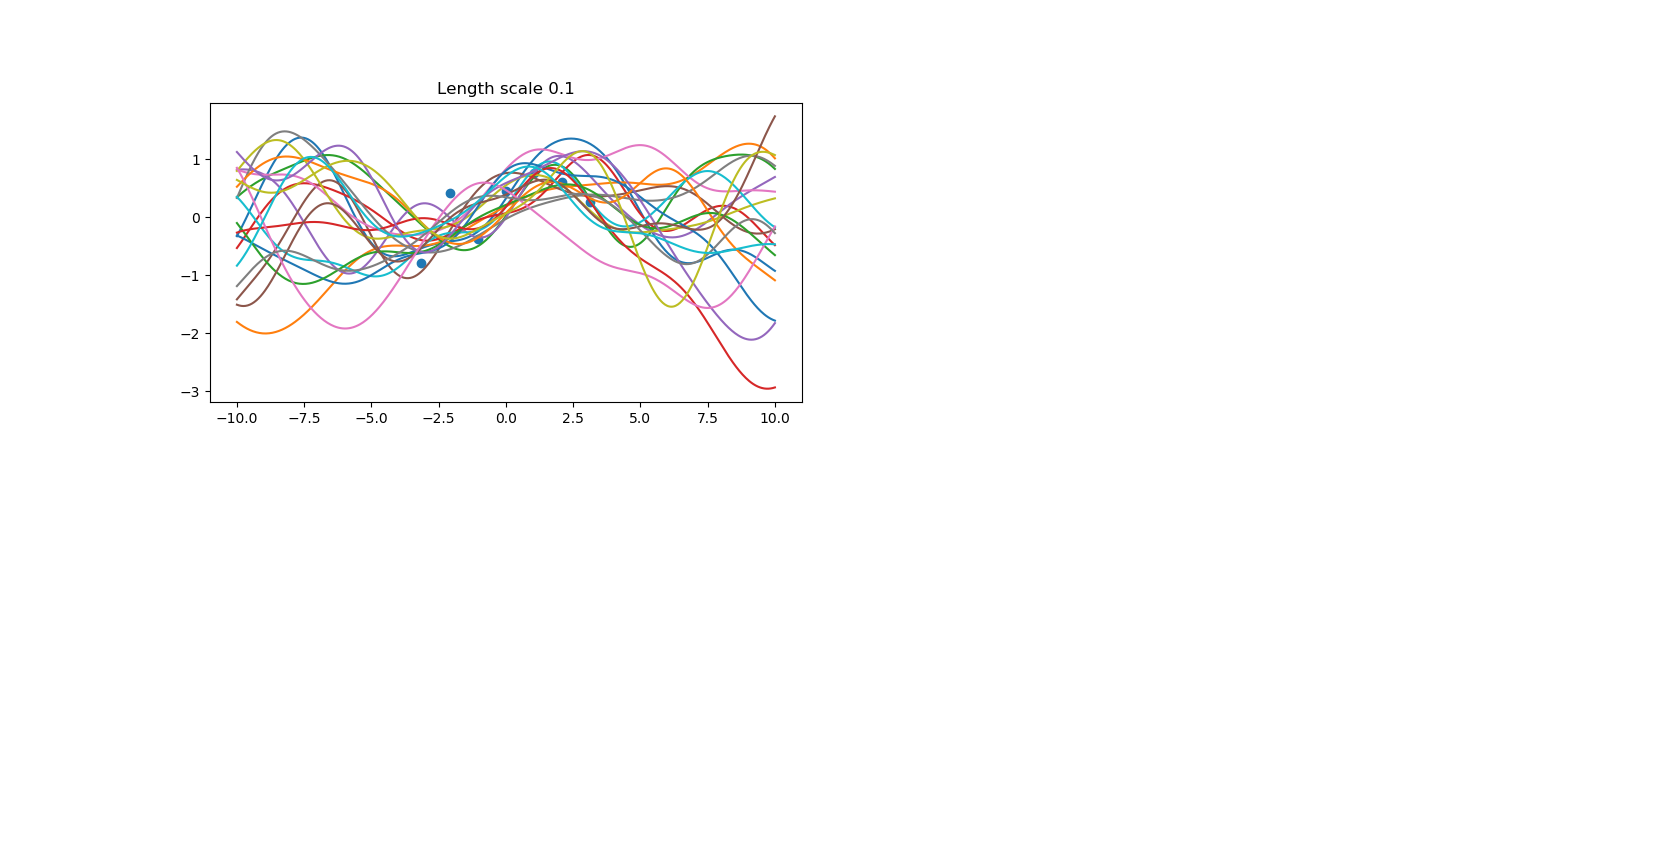
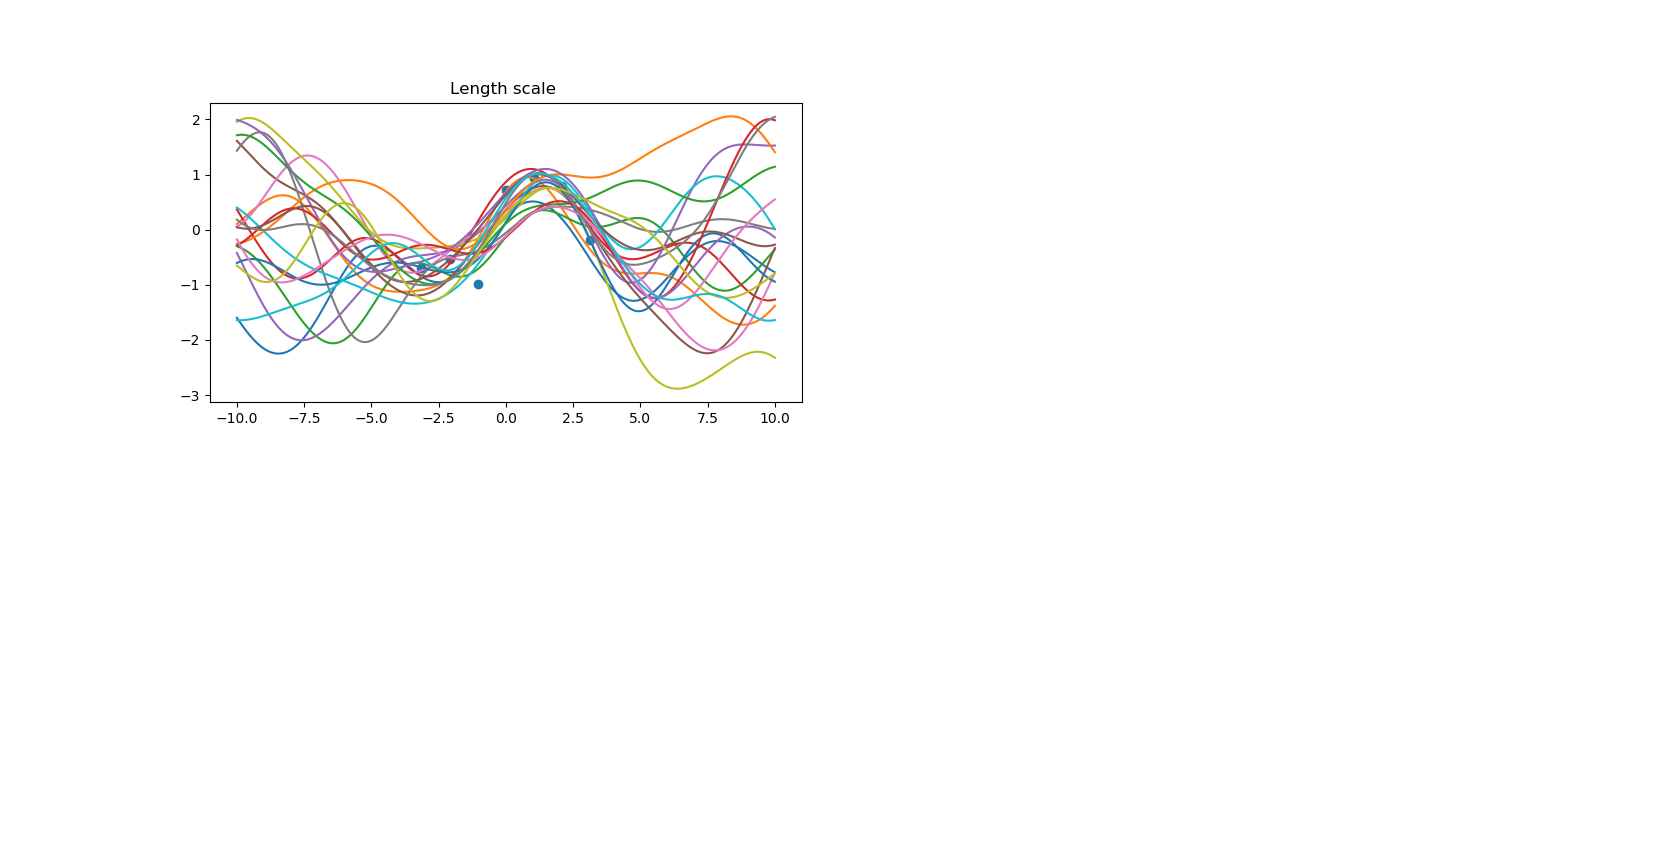
updated image for q14

Changed region(s): [[0.1238, 0.1215, 0.4643, 0.4556], [0.2476, 0.0911, 0.3405, 0.1215]]

diff --git a/gp-posterior-q14.py b/gp-posterior-q14.py
@@ -60,7 +60,7 @@ fig = plt.figure(figsize=(25,25))
     
 # ax1 = fig.add_subplot(221)
 ax1 = fig.add_subplot(221)
-ax1.title.set_text('Length scale 0.1')
+ax1.title.set_text('Length scale 3')
 ax1.plot(X, samples)
 ax1.scatter(X_train, Y_train, marker='o')
 plt.show()
